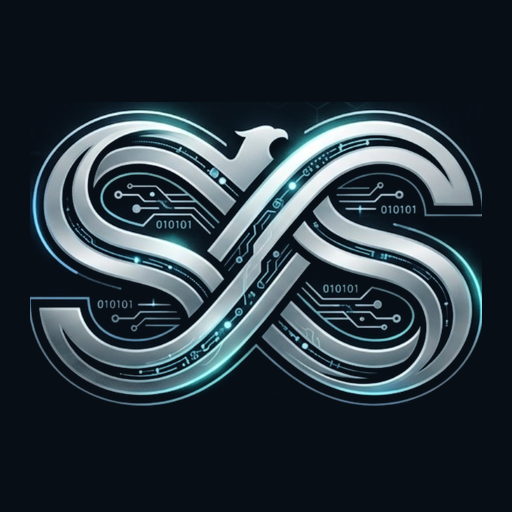
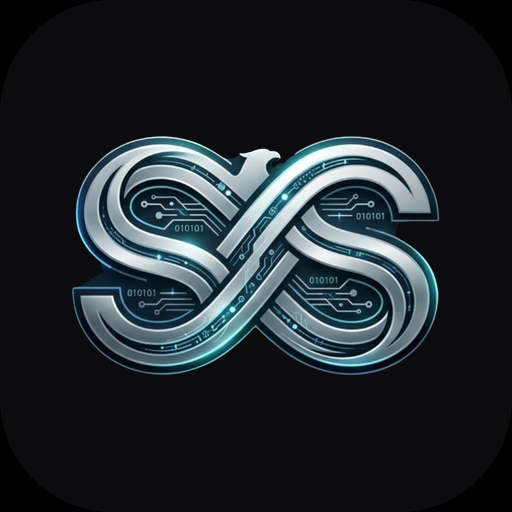
Ship the new S&S emblem and make the Codespace demo seed reliably
- Replace the brand assets and app icons with the new metallic emblem.
- Wordmark now fits the 248px sidebar (17px, h-9 logo).
- Codespace overlay enables the internal /demo fixtures so the seed scan
  produces 11 findings, 82 endpoints and PDF/JSON reports out of the box.
- Seed generates reports and attaches to an existing demo account.
- wait_for_web accepts the 307 from "/" and dumps logs on failure.
- Fix ENV -> ENVIRONMENT so the production stack actually sets production mode.

diff --git a/apps/web/components/app-shell.tsx b/apps/web/components/app-shell.tsx
@@ -68,13 +68,13 @@ export function Brand({ compact = false }: { compact?: boolean }) {
         src="/brand/venomscan-logo-256.png"
         alt="S&S Researcher emblem"
         width={256}
-        height={174}
+        height={169}
         priority
-        className="h-8 w-auto shrink-0 select-none drop-shadow-[0_0_12px_rgba(47,180,224,0.28)]"
+        className="h-9 w-auto shrink-0 select-none drop-shadow-[0_0_12px_rgba(47,180,224,0.28)]"
       />
       {!compact ? (
         <div className="min-w-0 leading-tight">
-          <span className="wordmark-metal block whitespace-nowrap text-[18px] font-semibold leading-none tracking-[0.1em]">
+          <span className="wordmark-metal block whitespace-nowrap text-[17px] font-semibold leading-none tracking-[0.1em]">
             VENOMSCAN
           </span>
           <p className="brand-company mt-1 text-[9px] font-semibold tracking-[0.14em]">

diff --git a/apps/web/app/login/page.tsx b/apps/web/app/login/page.tsx
@@ -74,7 +74,7 @@ export default function LoginPage() {
             src="/brand/venomscan-logo-512.png"
             alt="S&S Researcher emblem"
             width={512}
-            height={348}
+            height={338}
             priority
             className="h-[52px] w-auto select-none drop-shadow-[0_0_22px_rgba(47,180,224,0.32)]"
           />

diff --git a/apps/api/venomscan_api/seed.py b/apps/api/venomscan_api/seed.py
@@ -5,13 +5,35 @@ import os
 from sqlalchemy import select
 
 from venomscan_api import security
-from venomscan_api.config import get_settings
+from venomscan_api.config import Settings, get_settings
 from venomscan_api.db import init_db, init_engine, session_factory, utcnow
-from venomscan_api.models import Authorization, Scan, Target, User
-from venomscan_api.services import verification
+from venomscan_api.models import Authorization, Report, Scan, Target, User
+from venomscan_api.services import reports, verification
 from venomscan_api.services.runner import execute_scan
 
 DEMO_EMAIL = "demo@venomscan.local"
+
+
+def ensure_reports(settings: Settings, target_id: str) -> None:
+    with session_factory()() as db:
+        scan = db.scalar(
+            select(Scan)
+            .where(Scan.target_id == target_id, Scan.status == "completed")
+            .order_by(Scan.created_at.desc())
+        )
+        if scan is None:
+            return
+        owner = scan.target.owner
+        for fmt in ("pdf", "json"):
+            if db.scalar(select(Report.id).where(Report.scan_id == scan.id, Report.format == fmt)):
+                continue
+            try:
+                reports.generate(db, scan, owner, fmt, settings)
+                db.commit()
+                print(f"generated {fmt.upper()} report for scan {scan.id}")
+            except Exception as exc:  # a render failure must not lose the seeded scan
+                db.rollback()
+                print(f"{fmt.upper()} report skipped: {exc}")
 
 
 def main() -> None:
@@ -40,6 +62,8 @@ def main() -> None:
             db.add(user)
             db.flush()
             print(f"created user {DEMO_EMAIL}")
+        elif not user.name:
+            user.name = "Demo Analyst"
 
         target = db.scalar(select(Target).where(Target.owner_id == user.id))
         if target is None:
@@ -49,7 +73,7 @@ def main() -> None:
                 name="VENOMSCAN self-check",
                 url=target_url,
                 host=verification.host_from_url(target_url),
-                scope_notes="Local demo fixture served by the VENOMSCAN API itself.",
+                scope_notes="Demo fixture served by the VENOMSCAN API itself.",
             )
             db.add(target)
             db.flush()
@@ -80,9 +104,11 @@ def main() -> None:
             db.add(scan)
         db.commit()
         scan_id = scan.id if scan else None
+        target_id = target.id
 
     if scan_id is None:
         print("seed complete; a scan already exists for the demo target")
+        ensure_reports(settings, target_id)
         return
     if not settings.allow_private_targets:
         print(
@@ -90,11 +116,12 @@ def main() -> None:
             "local API instance (loopback targets stay blocked otherwise)"
         )
         return
-    print(f"running demo scan {scan_id} against {settings.api_base}/demo")
+    print(f"running demo scan {scan_id} against {settings.seed_target_url or 'the API /demo fixtures'}")
     execute_scan(scan_id)
     with session_factory()() as db:
         scan = db.get(Scan, scan_id)
         print(f"seed scan finished with status {scan.status if scan else 'missing'}")
+    ensure_reports(settings, target_id)
 
 
 if __name__ == "__main__":

diff --git a/docs/OPERATOR_GUIDE.md b/docs/OPERATOR_GUIDE.md
@@ -89,7 +89,7 @@ Server-sent events are excluded from gzip at both layers and the Caddy route use
 
 ### Demo data (optional)
 
-The production compose stack sets `DEMO_ENABLED=false` and `ENV=production`, so `/demo`
+The production compose stack sets `DEMO_ENABLED=false` and `ENVIRONMENT=production`, so `/demo`
 returns 404 and the seed refuses to run. To exercise the intentionally vulnerable
 fixtures, use the development setup above instead. This creates `demo@venomscan.local`,
 a verified target and one safe scan. It only works when `ALLOW_PRIVATE_TARGETS=true` (a
